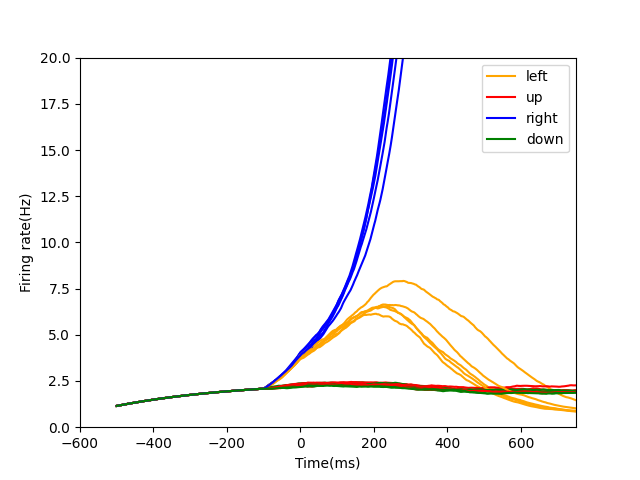
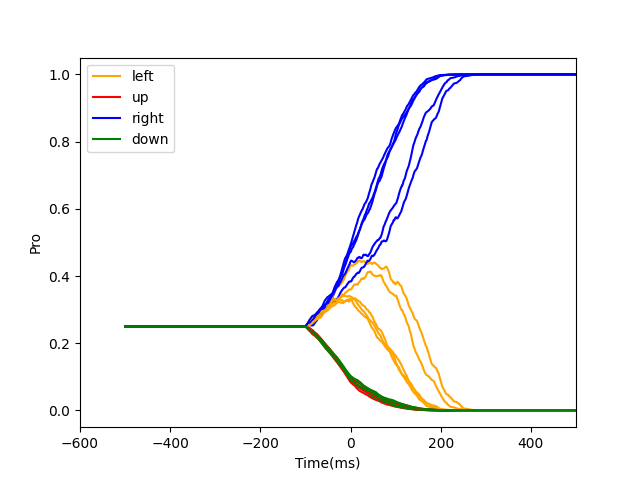
update softmax

diff --git a/network/energy_motion_4dirction_low.py b/network/energy_motion_4dirction_low.py
@@ -33,10 +33,10 @@ R_max, c_1,c_2 = popt
 
 def input_function(R_max, c_1,c_2,cprime):
     ratio = objective([0 + x for x in range(600)], R_max, c_1,c_2)
-    right = cprime*ratio+0.95
-    left = cprime*(1-ratio)*0.95
-    up = cprime*0.025*(np.zeros(left.shape)+1)
-    down = cprime*0.025*(np.zeros(left.shape)+1)
+    right = cprime*ratio*0.9*60
+    left = cprime*(1-ratio)*0.9*60
+    up = cprime*0.05*(np.zeros(left.shape)+1)*60
+    down = cprime*0.05*(np.zeros(left.shape)+1)*60
     return left,right,up,down
 
 #print(input_function(R_max,c_1,c_2,0.99))
@@ -48,9 +48,9 @@ d = 0.154
 gamma = 0.641
 taus = 100 * 10 ** -3
 tauampa = 2 * 10 ** -3
-Je = 0.3109
-Jot = -0.00697
-Jop = -0.0097
+Je = 0.3103
+Jot = -0.0185
+Jop = -0.0185
 
 (J11,J12,J13,J14) = (Je,Jot,Jop,Jot)
 (J21,J22,J23,J24) = (Jot,Je,Jot,Jop)
@@ -72,7 +72,7 @@ def H(xi):
 
 
 starttime = -0.5
-endtime = 0.9
+endtime = 2
 steps = int(abs(starttime - endtime) / dt)
 time = np.linspace(starttime, endtime, steps)
 
@@ -193,8 +193,32 @@ def smoothing(data):
 
 plt.figure
 
-iter=500
+
+sum_plot=0
+iter=10
 for cprime in [0.05]:
+  if sum_plot==0:
+    for i in range(iter):
+        print(i)
+        result = experiment(cprime)
+        result = np.asarray(result)
+        if(i==0):
+            sum=np.zeros((4,25000))
+        else:
+            sum= sum +result
+        hue = ['orange', 'red', 'blue', 'green']
+        if (i == 0):
+            plt.plot(time * 1000, smoothing(result[0]), color=hue[0], label='left')
+            plt.plot(time * 1000, smoothing(result[1]), color=hue[1], label='up')
+            plt.plot(time * 1000, smoothing(result[2]), color=hue[2], label='right')
+            plt.plot(time * 1000, smoothing(result[3]), color=hue[3], label='down')
+        else:
+
+            plt.plot(time * 1000, smoothing(result[0]), color=hue[0])
+            plt.plot(time * 1000, smoothing(result[1]), color=hue[1])
+            plt.plot(time * 1000, smoothing(result[2]), color=hue[2])
+            plt.plot(time * 1000, smoothing(result[3]), color=hue[3])
+  else:
     for i in range(iter):
         print(i)
         result = experiment(cprime)
@@ -204,18 +228,8 @@ for cprime in [0.05]:
         else:
             sum= sum +result
         hue = ['orange', 'red', 'blue', 'green']
-        #if (i == 0):
-            #plt.plot(time * 1000, smoothing(result[0]), color=hue[0], label='left')
-            #plt.plot(time * 1000, smoothing(result[1]), color=hue[1], label='up')
-            #plt.plot(time * 1000, smoothing(result[2]), color=hue[2], label='right')
-            #plt.plot(time * 1000, smoothing(result[3]), color=hue[3], label='down')
-        #else:
 
-            #plt.plot(time * 1000, smoothing(result[0]), color=hue[0])
-            #plt.plot(time * 1000, smoothing(result[1]), color=hue[1])
-            #plt.plot(time * 1000, smoothing(result[2]), color=hue[2])
-            #plt.plot(time * 1000, smoothing(result[3]), color=hue[3])
-    #rr=np.asarray(rr)
+
     sum=sum/iter
     plt.plot(time * 1000, smoothing(sum[0]), color=hue[0], label='left')
     plt.plot(time * 1000, smoothing(sum[1]), color=hue[1], label='up')
@@ -227,6 +241,5 @@ plt.ylabel('Firing rate(Hz)')
 # plt.ylim(0,40)
 #plt.text(-125, 16, 'Threshold')
 plt.legend()
-plt.savefig('./figs/low_500iter.png')
+plt.savefig('./figs/low_smalllook.png')
 plt.show()
-

diff --git a/network/energy_motion_4dirction_high.py b/network/energy_motion_4dirction_high.py
@@ -193,7 +193,7 @@ def smoothing(data):
 
 
 plt.figure
-sum_plot=0
+sum_plot=2
 iter=5
 for cprime in [1]:
   if sum_plot==0:
@@ -217,7 +217,15 @@ for cprime in [1]:
             plt.plot(time * 1000, smoothing(result[1]), color=hue[1])
             plt.plot(time * 1000, smoothing(result[2]), color=hue[2])
             plt.plot(time * 1000, smoothing(result[3]), color=hue[3])
-  else:
+    plt.xlabel('Time(ms)')
+    plt.ylabel('Firing rate(Hz)')
+    # plt.ylim(0,20)
+    # plt.xlim(-600,750)
+    # plt.text(-125, 16, 'Threshold')
+    plt.legend()
+    plt.savefig('./figs/high_500iterations.png')
+    plt.show()
+  elif sum_plot== 1:
     for i in range(iter):
         print(i)
         result = experiment(cprime)
@@ -234,14 +242,41 @@ for cprime in [1]:
     plt.plot(time * 1000, smoothing(sum[1]), color=hue[1], label='up')
     plt.plot(time * 1000, smoothing(sum[2]), color=hue[2], label='right')
     plt.plot(time * 1000, smoothing(sum[3]), color=hue[3], label='down')
+    plt.xlabel('Time(ms)')
+    plt.ylabel('Firing rate(Hz)')
+    # plt.ylim(0,20)
+    # plt.xlim(-600,750)
+    # plt.text(-125, 16, 'Threshold')
+    plt.legend()
+    plt.savefig('./figs/high_500iterations.png')
+    plt.show()
+  elif sum_plot == 2:
+      from scipy.special import softmax
 
+
+      for i in range(iter):
+          print(i)
+          result = experiment(cprime)
+          result = np.asarray(result)
+          result = softmax(result, axis=0)
+          hue = ['orange', 'red', 'blue', 'green']
+          if (i == 0):
+              plt.plot(time * 1000, smoothing(result[0]), color=hue[0], label='left')
+              plt.plot(time * 1000, smoothing(result[1]), color=hue[1], label='up')
+              plt.plot(time * 1000, smoothing(result[2]), color=hue[2], label='right')
+              plt.plot(time * 1000, smoothing(result[3]), color=hue[3], label='down')
+          else:
+
+              plt.plot(time * 1000, smoothing(result[0]), color=hue[0])
+              plt.plot(time * 1000, smoothing(result[1]), color=hue[1])
+              plt.plot(time * 1000, smoothing(result[2]), color=hue[2])
+              plt.plot(time * 1000, smoothing(result[3]), color=hue[3])
 #plt.plot(time * 1000, 15 * np.ones(steps))
-plt.xlabel('Time(ms)')
-plt.ylabel('Firing rate(Hz)')
-#plt.ylim(0,20)
-#plt.xlim(-600,750)
-#plt.text(-125, 16, 'Threshold')
-plt.legend()
-plt.savefig('./figs/high_500iterations.png')
-plt.show()
+      plt.xlabel('Time(ms)')
+      plt.ylabel('Pro')
+      plt.xlim(-600,500)
+      # plt.text(-125, 16, 'Threshold')
+      plt.legend()
+      plt.savefig('./figs/high_500iterations.png')
+      plt.show()
 
